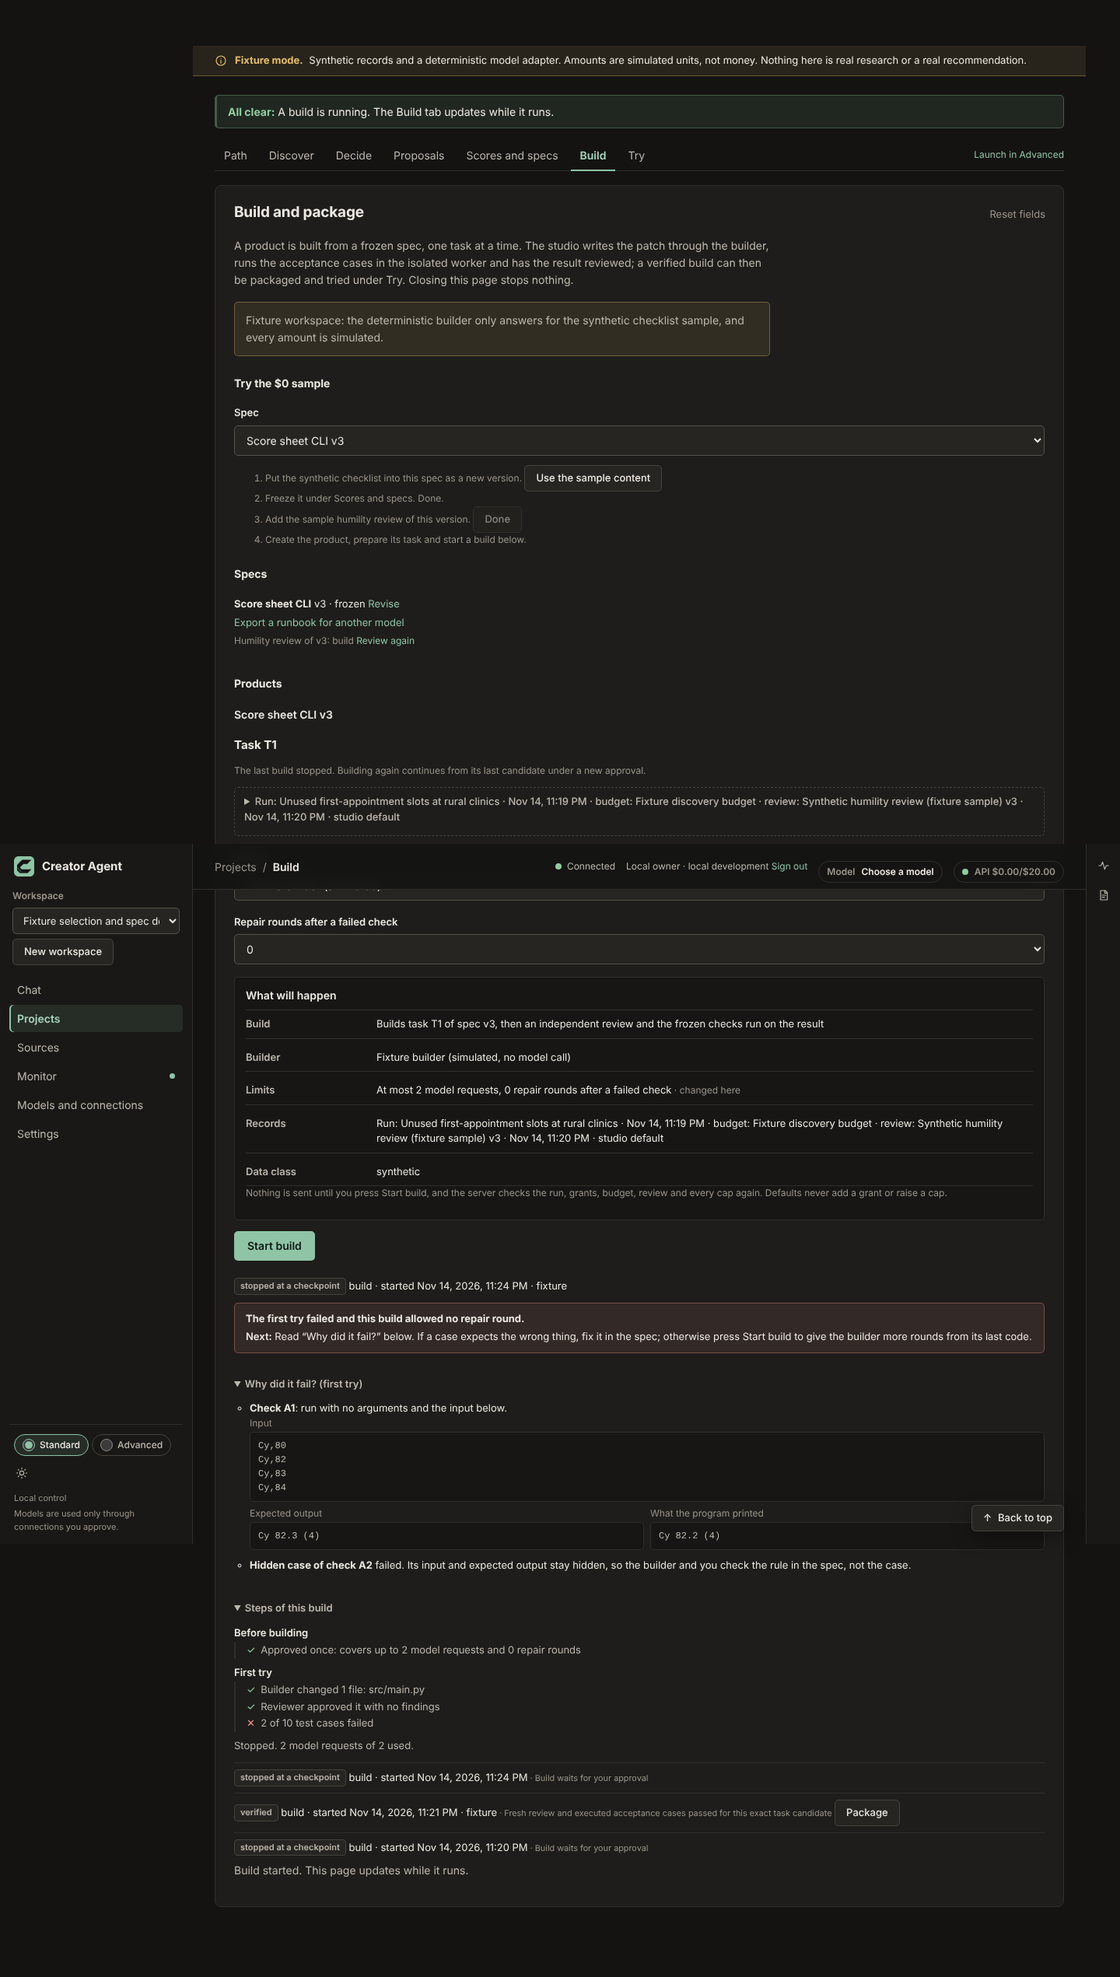
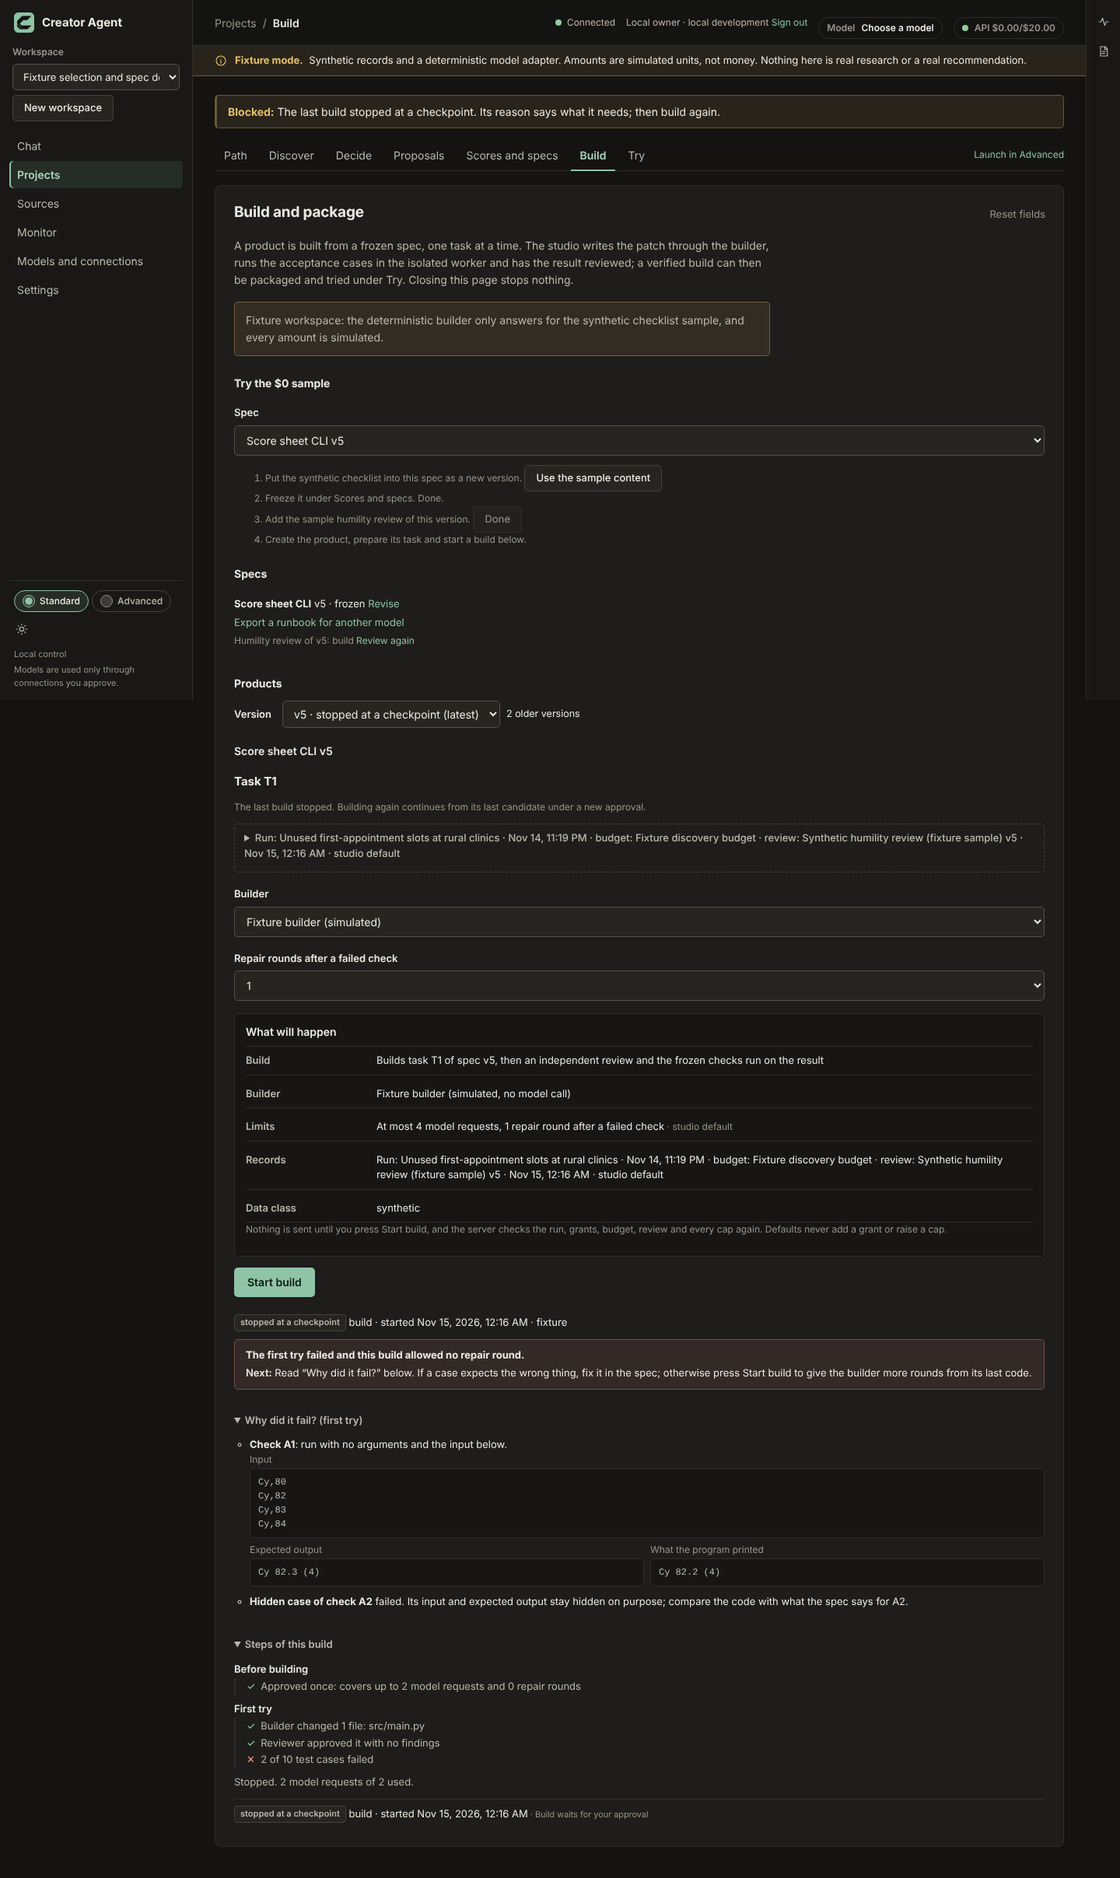
B3 review 1 fixes, live repair results and Windows run steps
- Daily-cap stop points to adding 20 requests for 24 hours (rolling cap).
- "Build admission has no covering grant" reads as waiting for approval.
- Only the step is in the live region; the seconds tick outside it.
- Codex turns are counted apart from the request cap.
- Stop headlines get exactly one period.
- Windows run steps say how to send input without PowerShell 5's
  byte-order mark; macOS/Linux say how to send a file.
- Screenshots 05 and 06 retaken; live p14-repair-v1 result (3 of 3, no
  repair needed, 6 requests, $0) recorded in the docs.

Claude-Session: https://claude.ai/code/session_01JTbuZrokzttCP9mfwzVf5Q

diff --git a/apps/web/src/build-progress-rules.ts b/apps/web/src/build-progress-rules.ts
@@ -40,6 +40,8 @@ export interface BuildProgress {
   cases: number;
   held_out: number;
   requests: number;
+  /** Codex builder turns, counted apart from `max_calls`. */
+  codex_turns?: number | undefined;
   approved: boolean;
   rounds: BuildRound[];
   now: {
@@ -75,8 +77,14 @@ export function elapsed(since: string, now: number): string {
   return s < 60 ? `${s} s` : `${Math.floor(s / 60)} min ${s % 60} s`;
 }
 
-/** The one line that says what a running build is doing now. */
-export function nowLine(p: BuildProgress, now: number): string | null {
+/**
+ * The live line in two parts, without the final period: the step, announced when it changes,
+ * and the time so far, which ticks every second and so stays out of the live region.
+ */
+export function nowParts(
+  p: BuildProgress,
+  now: number,
+): { step: string; time: string } | null {
   const n = p.now;
   if (!n) return null;
   const repair =
@@ -94,7 +102,19 @@ export function nowLine(p: BuildProgress, now: number): string | null {
             ? `Testing: case ${n.case ?? 1} of ${p.cases}${repair}`
             : 'Deciding what comes next';
   const t = elapsed(n.since, now);
-  return t ? `${what} (${t} so far).` : `${what}.`;
+  return { step: what, time: t ? `${t} so far` : '' };
+}
+
+/** The one line that says what a running build is doing now. */
+export function nowLine(p: BuildProgress, now: number): string | null {
+  const parts = nowParts(p, now);
+  if (!parts) return null;
+  return parts.time ? `${parts.step} (${parts.time}).` : `${parts.step}.`;
+}
+
+/** A headline without a trailing period, so the page adds exactly one. */
+export function headlineText(h: string): string {
+  return h.replace(/[.\s]+$/, '');
 }
 
 function builderLine(r: BuildRound, p: BuildProgress): TimelineLine | null {
@@ -209,7 +229,8 @@ export function timeline(
     if (lines.length)
       groups.push({ title: roundTitle(r.round, p.max_repairs), lines });
   }
-  const used = `${plural(p.requests, 'model request')} of ${p.max_calls} used`;
+  const turns = p.codex_turns ?? 0;
+  const used = `${plural(p.requests, 'model request')} of ${p.max_calls} used${turns ? ` (plus ${plural(turns, 'Codex turn')})` : ''}`;
   const footer: TimelineLine | null =
     state === 'verified_candidate'
       ? {
@@ -294,7 +315,9 @@ export function stopExplanation(
   const t = reason.replace(/^(Contract)?Error: /, '');
   let m: RegExpExecArray | null;
   if ((m = /^Build admission ([a-z_]+)/.exec(t)))
-    return m[1] === 'waiting_human' || m[1] === 'needs_human'
+    return m[1] === 'waiting_human' ||
+      m[1] === 'needs_human' ||
+      /^Build admission has no covering grant/.test(t)
       ? {
           headline: 'The build is waiting for your approval',
           next: 'Approve it once below, then press Start build. One approval covers the whole build.',
@@ -364,7 +387,7 @@ export function stopExplanation(
   if (/daily request cap|daily_cap_reached/i.test(t))
     return {
       headline: 'Today’s plan request limit is used up',
-      next: 'Build again after midnight UTC, or raise the daily limit under Connections.',
+      next: 'Add 20 requests for the next 24 hours (the usage button at the top, or the connection under Models and connections), or build again once older requests are more than 24 hours old.',
     };
   if (/per-run request cap|cap_reached/i.test(t))
     return {
@@ -449,7 +472,7 @@ export function runSteps(
         `mkdir ${folder}; tar -xf ${archive} -C ${folder}`,
         `cd ${folder}; py -3 -I src\\main.py`,
       ],
-      note: 'Add the arguments your spec describes after main.py.',
+      note: 'Add the arguments your spec describes after main.py. If it reads input, type it and end with Ctrl+Z then Enter, or send a file with cmd /c "py -3 -I src\\main.py < input.txt". Piping text into it in Windows PowerShell 5 can add an invisible mark to the first line.',
     },
     {
       system: 'macOS or Linux',
@@ -457,7 +480,7 @@ export function runSteps(
         `mkdir ${folder} && tar -xf ${archive} -C ${folder}`,
         `cd ${folder} && python3 -I src/main.py`,
       ],
-      note: 'Add the arguments your spec describes after main.py.',
+      note: 'Add the arguments your spec describes after main.py. If it reads input, type it and end with Ctrl+D, or send a file with python3 -I src/main.py < input.txt.',
     },
   ];
 }

diff --git a/tests/src/build-progress.test.ts b/tests/src/build-progress.test.ts
@@ -267,6 +267,18 @@ test('stop reasons read as what happened and one next step', async () => {
     said('ContractError: The per-run request cap of 30 is reached').headline,
     /This run’s request limit/,
   );
+  // Review 1 L-2: the API's "no covering grant" means the build needs your approval.
+  assert.match(
+    said('Error: Build admission has no covering grant').headline,
+    /waiting for your approval/,
+  );
+  // Review 1 M-1: the daily cap is a rolling 24 hours, and the owner can add 20 more.
+  const daily = said(
+    'ContractError: The studio daily request cap for this connection is reached. The workspace owner can add 20 more for the next 24 hours.',
+  );
+  assert.match(daily.next, /^Add 20 requests for the next 24 hours/);
+  assert.doesNotMatch(daily.next, /midnight/);
+  assert.equal(r.headlineText('Something stopped.'), 'Something stopped');
   assert.equal(said('Error: never seen before').headline, 'FALLBACK');
   // Every answer names a next step.
   for (const reason of [
@@ -293,7 +305,35 @@ test('run steps name the archive and both systems; untested items stay honest', 
     r.runSteps('python-build/1', 'x.tar')[1]!.lines.join('\n'),
     /python3 -I src\/main\.py/,
   );
+  // Found on Windows PowerShell 5.1 (Nov 15): piped text gets a byte-order mark, so a file goes through cmd.
+  const py = r.runSteps('python-build/1', 'x.tar');
+  assert.match(py[0]!.note, /cmd \/c "py -3 -I src\\main\.py < input\.txt"/);
+  assert.match(py[1]!.note, /python3 -I src\/main\.py < input\.txt/);
   assert.equal(r.elapsed(new Date(0).toISOString(), 125000), '2 min 5 s');
+  // Review 1 L-1: the live region gets the step only; the seconds sit outside it.
+  const p = {
+    max_repairs: 2,
+    cases: 10,
+    now: {
+      step: 'testing',
+      round: 1,
+      case: 3,
+      since: new Date(0).toISOString(),
+    },
+  };
+  assert.deepEqual(r.nowParts(p, 12000), {
+    step: 'Testing: case 3 of 10 (repair round 1 of 2)',
+    time: '12 s so far',
+  });
+  // Review 1 N-1: Codex turns are counted apart from the request cap.
+  const footer = r.timeline(
+    { ...p, now: null, rounds: [], requests: 1, codex_turns: 4, max_calls: 4 },
+    'failed',
+  ).footer;
+  assert.equal(
+    footer.text,
+    'Stopped. 1 model request of 4 used (plus 4 Codex turns).',
+  );
 });
 
 test(

diff --git a/apps/web/src/build-progress.tsx b/apps/web/src/build-progress.tsx
@@ -2,8 +2,9 @@ import { useEffect, useState } from 'react';
 import { z } from '@creator/contracts';
 import {
   changedFiles,
+  headlineText,
   judgedRound,
-  nowLine,
+  nowParts,
   roundTitle,
   runSteps,
   stopExplanation,
@@ -46,6 +47,7 @@ export const BuildProgressSchema = z.object({
   cases: z.number(),
   held_out: z.number(),
   requests: z.number(),
+  codex_turns: z.number().optional(),
   approved: z.boolean(),
   rounds: z.array(
     z.object({
@@ -345,19 +347,24 @@ export function BuildDetails({
   const running = state === 'running';
   const now = useNow(running && !!progress?.now);
   const stopped = state === 'checkpoint' || state === 'failed';
+  const live = running && progress ? nowParts(progress, now) : null;
   const why =
     reason && stopped ? stopExplanation(reason, progress, plain) : null;
   return (
     <div className="build-details">
       {running && (
-        <p className="build-now" role="status" aria-live="polite">
-          {progress ? (nowLine(progress, now) ?? 'Starting…') : 'Starting…'}
+        <p className="build-now">
+          {/* Only the step is live: the seconds tick every second and would be re-announced. */}
+          <span role="status" aria-live="polite">
+            {live?.step ?? 'Starting…'}
+          </span>
+          {live?.time ? <span> ({live.time})</span> : null}.
         </p>
       )}
       {why && (
         <div className="build-stop">
           <p>
-            <strong>{why.headline}.</strong>
+            <strong>{headlineText(why.headline)}.</strong>
           </p>
           <p>
             <span className="next-label">Next:</span> {why.next}

diff --git a/packages/executor/src/build-progress.ts b/packages/executor/src/build-progress.ts
@@ -98,7 +98,10 @@ export interface BuildProgress {
   max_calls: number;
   cases: number;
   held_out: number;
+  /** Requests counted against `max_calls` (role calls). */
   requests: number;
+  /** Codex builder turns, counted apart from `max_calls` (0 on other routes). */
+  codex_turns: number;
   approved: boolean;
   rounds: BuildRound[];
   /** While the build runs: the step it is on now and since when. */
@@ -295,11 +298,11 @@ export async function readBuildProgress({
     max_calls: plan.max_calls,
     cases: plan.cases.length,
     held_out: heldOut.filter(Boolean).length,
-    requests:
+    requests: calls.length,
+    codex_turns:
       route === 'codex_plan'
-        ? calls.length +
-          [...names].filter((n) => /^codex-\d+-intent\.json$/.test(n)).length
-        : calls.length,
+        ? [...names].filter((n) => /^codex-\d+-intent\.json$/.test(n)).length
+        : 0,
     approved: names.has('admission-0.json'),
     rounds,
     now,

diff --git a/apps/web/src/style.css b/apps/web/src/style.css
@@ -3889,6 +3889,8 @@ pre.commands {
 }
 .build-results p {
   margin: 0;
+}
+
 /* ADR-0101 (UX pass P-5): model drafts of a proposal's missing sections. */
 .proposal-drafts {
   margin: 1rem 0;

diff --git a/tracking/evidence/b3-build-page/README.md b/tracking/evidence/b3-build-page/README.md
@@ -114,10 +114,56 @@ desktop app it opens in the default browser, which frames the site from `w<id>-<
 What remains to observe on Jordan's PC: in the installed app, Try › a static web package › Start
 private preview › Open: the default browser opens and the page shows. Not done here.
 
-## Not done (needs Jordan's typed OK)
+## Live repair benchmark (Jordan's PC, November 15, 2026)
 
-- **Live repair benchmark**: 3 attempts of `p14-repair-v1` on the ChatGPT plan, `plan_roles`,
-  gpt-6-astra, caps from `expectations.json` (2 repairs, 6 requests each), at most 18 plan requests,
-  $0, one run per attempt, on the dev studio running this branch, WSL2 worker. Records go to
-  `tracking/evidence/p14-benchmarks/` as before.
-- **Desktop preview look** as above, and the Windows export start with the PowerShell steps.
+Jordan's typed OK (thread, 2026-11-14 23:55 UTC). Dev studio on Jordan's PC running this branch
+(`d29ee31`, schema 63, backup `creator_studio-pre-b3-20261114T235716Z.dump` first), WSL2 worker,
+`plan_roles` on the ChatGPT-plan connection with gpt-6-astra, `FREEZE.json` `a6d18687…0eb47eea`,
+caps 2 repairs and 6 requests per attempt. One run per attempt in Jordan's Creator Studio (the
+empty Testing workspace has no plan connection; no connection was added or changed). Builds were
+started with the CLI because the Build page's Start build sends 3,000 output tokens, not the frozen
+6,000. Each build stopped once for its approval, given in place on the Build page.
+
+**3 of 3 verified, and no attempt needed a repair**, so a live repair round was not observed. Under
+decision D that is the result; nothing was re-run. 6 plan requests in total (0 → 6 that day), $0.
+
+| Attempt | Studio                                           | Change                | Grader (Bubblewrap)                     |
+| ------- | ------------------------------------------------ | --------------------- | --------------------------------------- |
+| 1       | verified; 2 requests, 0 repairs, 40 s; 4/4 + 6/6 | src/main.py, 66 lines | 10/10, 22/22 extended; 0.026 s, 11.7 MB |
+| 2       | verified; 2 requests, 0 repairs, 38 s; 4/4 + 6/6 | src/main.py, 75 lines | 10/10, 22/22; 0.025 s, 11.7 MB          |
+| 3       | verified; 2 requests, 0 repairs, 46 s; 4/4 + 6/6 | src/main.py, 65 lines | 10/10, 22/22; 0.029 s, 11.7 MB          |
+
+Reviewer approved each with no findings; `compare-spec` passed for each; no patch was refused.
+Records: `tracking/evidence/p14-benchmarks/RESULTS_REPAIR_V1_2026-11-14.json` and `live/` (added
+from Jordan's PC once he allows the push; until then they are on his PC in
+`C:\dev\creator_agent_main`, with full per-attempt files under `.creator\p14-benchmarks\repair-v1\`).
+
+Seen on the live Build page: the verified view read as intended ("4 you can see… 6 hidden", the
+approval's coverage, "2 model requests of 6 used", the archive name in the run steps). Not seen
+live: the live line, "Why did it fail?" and repair steps (nothing failed). Two limits found, not
+fixed here: a build started from the CLI runs in the CLI's own process, so Build shows it as
+"interrupted (not resent)" until it ends; and Build picks up a build started elsewhere only when the
+page is shown again or reloaded.
+
+**Windows export start** (Windows PowerShell 5.1, attempt 1's archive): `mkdir my-product; tar -xf
+… -C my-product` and `cd my-product; py -3 -I src\main.py` work as written; A1.1, A1.2 (`Cy 82.3
+(4)`), A2.1 and A3.1 matched. `python3` is the Microsoft Store stub (exit 9009), so `py -3` was
+the right call. Found: in a UTF-8 console, Windows PowerShell 5.1 adds a byte-order mark to text
+piped into a program, which breaks the first line (A1.2 printed `Cy 83.0 (3)` plus a separate
+`Cy 80.0 (1)`). The run steps now say how to send input safely (type it and end with Ctrl+Z, or
+`cmd /c "py -3 -I src\main.py < input.txt"`).
+
+## Review 1 fixes (November 15)
+
+`/mnt/project-files/reviews/PR203_REVIEW_1_2026-11-15.md`: M-1 the daily-cap next step points to
+adding 20 requests for 24 hours (the cap is a rolling 24 hours, not midnight UTC); L-1 only the step
+is in the live region, the seconds tick outside it (`nowParts`); L-2 "Build admission has no
+covering grant" reads as waiting for approval; L-4 main merged; N-1 Codex turns are counted apart
+from the request cap (`codex_turns`); N-2 headlines get exactly one period (`headlineText`); N-3
+screenshots 05 and 06 retaken (the banner above a stopped build now reads "Blocked: The last build
+stopped at a checkpoint"; axe-core 0 violations at 1440 and 390 px). L-3 (#200's trial label on
+verified web results) belongs to whichever of #200 and #203 merges second.
+
+## Not done
+
+- **Desktop preview look** on Jordan's PC as above.

diff --git a/tracking/SESSION_HANDOFF.md b/tracking/SESSION_HANDOFF.md
@@ -2,7 +2,7 @@
 
 ## November 14 handoff — B3 Build page timeline, results and repair benchmark
 
-Branch `claude/project-thread-bn6eyf` from main 2faaa17; no migration or ADR (coordinator reserved migration 67 / ADR-0107 if needed; unused). Executor: `build-progress.ts` (`readBuildProgress`, `BuildProgress`, `CaseFailure`), `BuildSupervisor.progress(product, build, running)`. API: `StudioBuilds.buildList` adds `progress` to each task's newest build; `begin` sends `frozenBrowserCases` for `static-web/1` (in-app web builds were refused before); test seam `createApi(env, { buildPorts })` → `StudioBuilds.wrapPorts`. Web: `build-progress-rules.ts` (`timeline`, `nowLine`, `stopExplanation`, `judgedRound`, `runSteps`, `testedSummary`, `changedFiles`), `build-progress.tsx` (`BuildDetails`, `BuildTimeline`, `WhyFailed`, `BuildProgressSchema`), rendered in `build.tsx` on each task's newest build row; CSS at the end of `style.css`. Benchmark set `repair-v1` (`scripts/p14-benchmark.mjs` `SETS`, `setOf('p14-repair-v1')`), mutants in `tests/src/p14-benchmarks.test.ts`. Evidence and walk: `tracking/evidence/b3-build-page/`. Next: independent review in a separate thread; then, with Jordan's typed OK, the live repair benchmark on the dev studio running this branch and the desktop preview look. `pnpm test:db`: 1221 tests, 1187 pass, 29 skipped, 5 known PowerShell-wrapper failures.
+Branch `claude/project-thread-bn6eyf` from main 2faaa17; no migration or ADR (coordinator reserved migration 67 / ADR-0107 if needed; unused). Executor: `build-progress.ts` (`readBuildProgress`, `BuildProgress`, `CaseFailure`), `BuildSupervisor.progress(product, build, running)`. API: `StudioBuilds.buildList` adds `progress` to each task's newest build; `begin` sends `frozenBrowserCases` for `static-web/1` (in-app web builds were refused before); test seam `createApi(env, { buildPorts })` → `StudioBuilds.wrapPorts`. Web: `build-progress-rules.ts` (`timeline`, `nowLine`, `stopExplanation`, `judgedRound`, `runSteps`, `testedSummary`, `changedFiles`), `build-progress.tsx` (`BuildDetails`, `BuildTimeline`, `WhyFailed`, `BuildProgressSchema`), rendered in `build.tsx` on each task's newest build row; CSS at the end of `style.css`. Benchmark set `repair-v1` (`scripts/p14-benchmark.mjs` `SETS`, `setOf('p14-repair-v1')`), mutants in `tests/src/p14-benchmarks.test.ts`. Evidence and walk: `tracking/evidence/b3-build-page/`. Live repair benchmark done on Jordan's PC (3 of 3, no repair needed, 6 requests, $0; Jordan's dev studio now runs this branch at schema 63). Review 1 fixed (`nowParts`, `headlineText`, `codex_turns`, daily-cap and no-covering-grant stops; main merged); L-3 (#200's trial label on web results) goes to whichever of #200/#203 merges second. Next: re-review; the desktop preview look on Jordan's PC. `pnpm test:db`: 1221 tests, 1187 pass, 29 skipped, 5 known PowerShell-wrapper failures.
 
 ## November 14 handoff — plan per-run cap 30 and held-claims next step (PR #199)
 

diff --git a/tracking/BUILD_STATUS.md b/tracking/BUILD_STATUS.md
@@ -6,7 +6,7 @@ What now works: each task's newest build on Build shows a live line and its step
 
 Checked in the cloud container: `pnpm typecheck`, `pnpm format:check`, `pnpm test:db` on a throwaway PostgreSQL 16 (1221 tests: 1187 pass, 29 skipped, the 5 PowerShell-wrapper failures that always fail in the cloud), the new `tests/src/build-progress.test.ts` (a repair round through the studio route with a python3 test double: first draft fails 2 cases, repair round verifies; the web build start fails on main), the repair benchmark tests (reference 32/32, 11 mistakes caught), a UI walk with screenshots and axe-core (0 violations at 1440 and 390 px), and both exported packages started outside the studio with their own startup command (10/10 each). Evidence: `tracking/evidence/b3-build-page/`.
 
-Not done: the live repair benchmark (3 attempts, at most 18 plan requests, $0) and the desktop preview look on Jordan's PC need his typed OK. The repair path is proven with a test double only, not live.
+Live (Jordan's PC, November 15): `p14-repair-v1` passed 3 of 3 on the dev studio running this branch, 6 plan requests, $0, and no attempt needed a repair, so a live repair round was not observed (decision D: that is the result; the repair path is proven with a test double only). The Build page's Windows run steps worked on Windows PowerShell 5.1; a piping caveat found there is now in the steps. Review 1 (1 M, 4 L, 3 nits) fixed except L-3, which belongs to whichever of #200 and #203 merges second. Not done: the desktop preview look on Jordan's PC.
 
 ## November 14 update — ChatGPT plan per-run cap default 30 and the held web-claims next step (PR #199)
 

diff --git a/docs/REPO_BENCHMARKS_P14_2026-11-06.md b/docs/REPO_BENCHMARKS_P14_2026-11-06.md
@@ -267,5 +267,7 @@ blank and comment lines, a trailing `\r`, first-record spelling, lowercased tie 
 10 studio cases (6 held out), 22 extended cases, 11 listed known mistakes each caught by the cases
 named for it. Caps: 2 repairs, 6 requests, 6,000 output tokens, 120 s, synthetic. Pass bar and records
 in its `expectations.json`; how the Build page shows a repair round, and its test-double run, in
-`tracking/evidence/b3-build-page/README.md`. Not run live yet: 3 attempts need Jordan's typed OK
-(at most 18 plan requests, $0).
+`tracking/evidence/b3-build-page/README.md`. Live result (November 15, 2026, dev studio on Jordan's
+PC, `plan_roles`, gpt-6-astra): **3 of 3 verified, no attempt needed a repair**, so a live repair
+round was not observed (decision D: that is the result). 2 requests each, 6 in total, $0; grader
+10/10 and 22/22 extended for each package. Details in the B3 evidence README.
